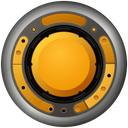
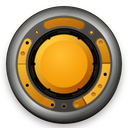
니슬렁: 위젯 다시 그리기 제거(숫자만 갱신), 싱크칩 제작소(계산 버튼 장치·50초 대기 후 10초 가동·칩 사출), 사이트 아이콘을 실제 계산 버튼과 같게
Claude-Session: https://claude.ai/code/session_01DURwo2uBEwukpQLRAcFitq

diff --git a/css/main.css b/css/main.css
@@ -1833,3 +1833,11 @@ button:not(.tr-clr):not(.tabs button):not(.tr-f):not(.pk-t):not(.pk-r){border-ra
 .lb-g.idlek .idle-v{display:flex;align-items:baseline;justify-content:center;gap:5px;margin-top:2px}.lb-g.idlek .idle-v svg{align-self:center}.lb-g.idlek .idle-v .num{font:900 20px "Arial Black","Pretendard",sans-serif}.lb-g.idlek .idle-v em{font-style:normal;font-size:12px;color:#b9c2d3}
 .lb-g.idlek .idle-bar{width:100%;height:8px;border-radius:99px;background:rgba(255,255,255,.12);overflow:hidden;margin:4px 0 8px}.lb-g.idlek .idle-bar u{display:block;height:100%;border-radius:99px;background:linear-gradient(90deg,#f69a3e,#ffd24a)}
 .idle-go{border:0;border-radius:99px;padding:8px 26px;font:inherit;font-weight:900;font-size:14px;color:#14161c;background:linear-gradient(180deg,#ffe58a,#ffb21c 55%,#e08a00);box-shadow:0 4px 0 #8a5200;cursor:pointer}.idle-go:active{transform:translateY(3px);box-shadow:0 1px 0 #8a5200}.idle-go:disabled{filter:grayscale(.8);opacity:.5;cursor:default}
+
+/* 싱크칩 제작소(계산 버튼과 같은 장치) */
+.idle-fx{position:relative;width:62%;max-width:150px;aspect-ratio:1;margin:0 auto 4px}.idle-fx img{position:absolute;inset:0;width:100%;height:100%;display:block}
+.idle-fx.work .idle-ring{animation:idleSpin var(--left,10s) cubic-bezier(.45,0,.4,1) both}@keyframes idleSpin{to{transform:rotate(1080deg)}}
+.idle-chip{position:absolute;left:50%;top:50%;width:30%;height:30%;transform:translate(-50%,-50%);display:block;opacity:.35;filter:grayscale(.6);transition:opacity .5s,filter .5s}.idle-chip svg{width:100%;height:100%;display:block}
+.idle-fx.work .idle-chip{opacity:1;filter:none;animation:idlePress .5s ease-in-out infinite}@keyframes idlePress{50%{transform:translate(-50%,-50%) scale(.82) rotate(20deg)}}
+.idle-fx.work:after{content:"";position:absolute;inset:27%;border-radius:50%;box-shadow:0 0 18px 6px rgba(255,210,90,.7);animation:idleHot .5s ease-in-out infinite alternate;pointer-events:none}@keyframes idleHot{from{opacity:.3}to{opacity:1}}
+#tab-game .lb-g.idlek{background:radial-gradient(ellipse at 50% 28%,rgba(255,170,40,.16),transparent 65%),#14161c}

diff --git a/index.html b/index.html
@@ -8,8 +8,8 @@
 <meta property="og:description" content="싱크로 레벨업 시간·과금 시뮬레이터">
 <meta property="og:type" content="website">
 <meta property="og:url" content="https://levelinfinikke.github.io/DOROSYNC/">
-<link rel="icon" type="image/png" href="assets/img/calcbtn128.png?v=2">
-<link rel="apple-touch-icon" href="assets/img/calcbtn192.png?v=2">
+<link rel="icon" type="image/png" href="assets/img/calcbtn128.png?v=3">
+<link rel="apple-touch-icon" href="assets/img/calcbtn192.png?v=3">
 <meta name="description" content="니케 싱크로 레벨업에 걸리는 시간과 과금액을 일자별로 계산하고, 최적 패키지 조합을 찾아주는 시뮬레이터">
 <script>/* 화면 모드: 고른 적 없으면 다크(첫 화면부터 깜빡임 없이) */(function(){var t='dark';try{var v=localStorage.getItem('dorosync-theme');if(v==='light'||v==='dark')t=v}catch(e){}document.documentElement.setAttribute('data-theme',t)})();</script>
 <script>/* 주소의 탭을 첫 화면부터 표시: 무거운 스크립트가 끝나기 전 '모집' 탭이 잠깐 보이는 현상 방지 */
@@ -31,7 +31,7 @@
 <header class="top">
   <div class="wrap top-in">
     <div>
-      <h1>DORO<img class="ti" src="assets/img/calcbtn128.png?v=2" alt="" aria-hidden="true"><span class="sy">SYNC</span> <span class="ver hver">V2.2</span></h1>
+      <h1>DORO<img class="ti" src="assets/img/calcbtn128.png?v=3" alt="" aria-hidden="true"><span class="sy">SYNC</span> <span class="ver hver">V2.2</span></h1>
       
     </div>
     <div class="top-act">
